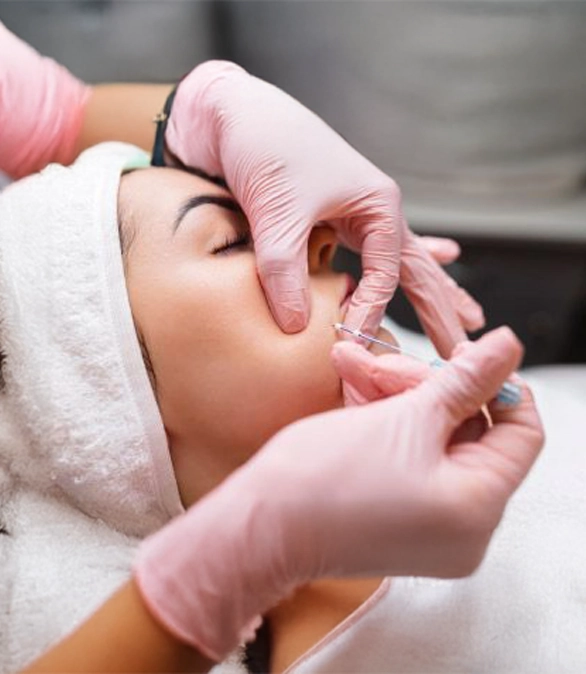
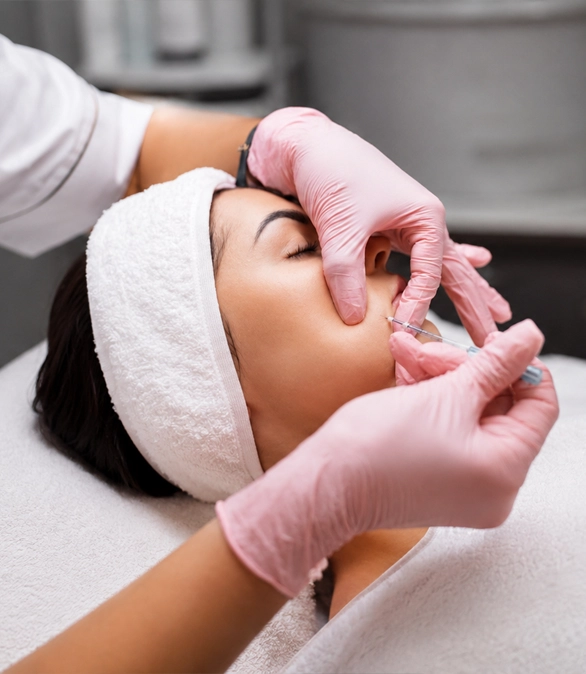
feat: add ServiceData interface and HIFU service configuration with assets

diff --git a/src/lib/servicesData.ts b/src/lib/servicesData.ts
@@ -1575,7 +1575,7 @@ export const SERVICES_DATA: Record<string, ServiceData> = {
     deviceSub: "BIO-COMPATIBLE SUTURES • STERILE THEATRE • ANATOMICAL MAPPING",
     deviceDesc: "We use premium, high-strength PDO cog threads designed to hold facial tissue securely and stimulate collagen safely.",
     deviceFeatures: ["PDO/PLLA Material", "Surgical-Grade Quality", "Precision Cannulas", "Completely Absorbable"],
-    deviceImage: "/services/hifu/hifu.webp",
+    deviceImage: "/services/thread lift/3.webp",
     comparisonTitle: "COSMO HOME vs Surgical Facelift",
     comparisonRows: [
       { label: "Invasiveness", ours: "Minimally invasive with local anesthesia", standard: "Major surgery under general anesthesia" },
@@ -1618,8 +1618,8 @@ export const SERVICES_DATA: Record<string, ServiceData> = {
     ],
     ctaImage: "https://images.unsplash.com/photo-1544005313-94ddf0286df2?w=1600&h=900&fit=crop&auto=format",
     beforeAfter: {
-      beforeImage: "/services/before&after/injections/before.webp",
-      afterImage: "/services/before&after/injections/after.webp",
+      beforeImage: "/services/thread lift/before.webp",
+      afterImage: "/services/thread lift/after.webp",
       treatmentName: "Thread Lift Contour Sculpting",
       testimonialText: "I noticed an immediate lift in my lower face and jawline. The recovery was quick and the contours look beautifully defined.",
       patientName: "Renu G., 46",
